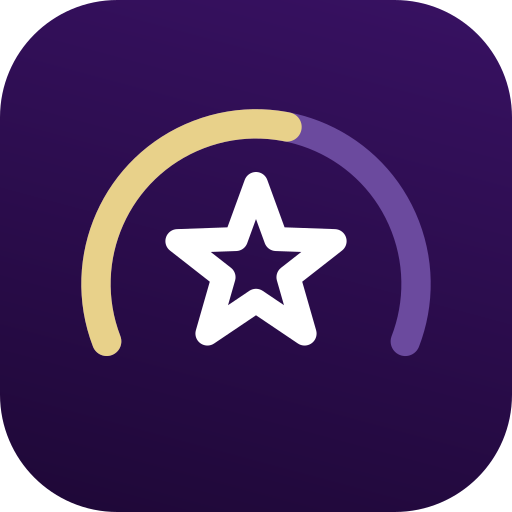
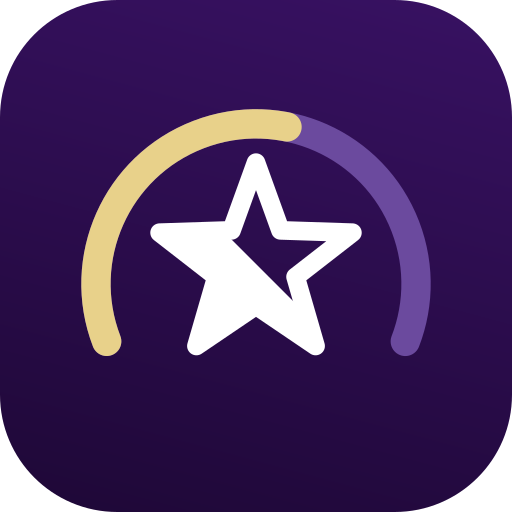
feat: 아이콘 별을 대각선 절반 채움으로 · 푸터 설명 제거
- 별을 조금 키우고(외반경 34.5→38) 선을 얇게(9→7) 해 내부가 보이게 했다.
  같은 path를 두 번 그려 좌하단 절반만 채운다 — 게이지 호가 도는 방향과 같다
- 푸터에서 서비스 설명 한 줄을 없애고 워드마크와 저작권만 남겼다
- 세션을 다시 저장할 때 이미 있던 서명 토큰을 살린다. 프로필 이름을 고치는
  자리에서 토큰이 떨어져 로그인이 풀리는 것을 막는다

diff --git a/components/SiteFooter.tsx b/components/SiteFooter.tsx
@@ -1,12 +1,9 @@
 import type { CSSProperties } from "react";
 
-/** 앱 하단 공통 푸터 — 서비스 한 줄 설명과 myjane 워드마크 */
+/** 앱 하단 공통 푸터 — myjane 워드마크와 저작권 한 줄만 둔다 */
 export function SiteFooter() {
   return (
     <footer style={wrapStyle}>
-      <p style={descStyle}>
-        함히보까 — 함께 목표를 정하고 스티커를 모아 채우는 기록 도구입니다.
-      </p>
       <p style={lineStyle}>
         <a
           href="https://www.myjane.co.kr"
@@ -30,15 +27,7 @@ const wrapStyle: CSSProperties = {
   textAlign: "left",
 };
 
-const descStyle: CSSProperties = {
-  margin: 0,
-  fontSize: "0.8rem",
-  color: "var(--text-muted)",
-  wordBreak: "keep-all",
-  lineHeight: 1.6,
-};
-
-const lineStyle: CSSProperties = { margin: "0.75rem 0 0" };
+const lineStyle: CSSProperties = { margin: 0 };
 
 const copyStyle: CSSProperties = {
   margin: "0.4rem 0 0",

diff --git a/lib/session.ts b/lib/session.ts
@@ -152,10 +152,20 @@ export function hasUsableSession(): boolean {
 
 export function saveSession(user: SessionUser, token?: string) {
   if (typeof window === "undefined") return;
+
+  /*
+    토큰을 넘기지 않았으면 이미 있는 토큰을 그대로 살린다.
+    프로필 이름을 고칠 때처럼 세션을 다시 저장하는 자리에서 토큰이 떨어지면
+    바로 로그인이 풀린다. 단 사람이 바뀌었으면 남의 토큰을 물려줄 수 없다.
+  */
+  const kept = readBestPayload();
+  const carried =
+    token ?? (kept && kept.user.id === user.id ? kept.token : undefined);
+
   const body: StoredPayload = {
     v: 1,
     user,
-    ...(token ? { token } : {}),
+    ...(carried ? { token: carried } : {}),
     expiresAt: Date.now() + SESSION_TTL_SEC * 1000,
   };
   setCookie(SESSION_KEY, JSON.stringify(body), SESSION_TTL_SEC);
